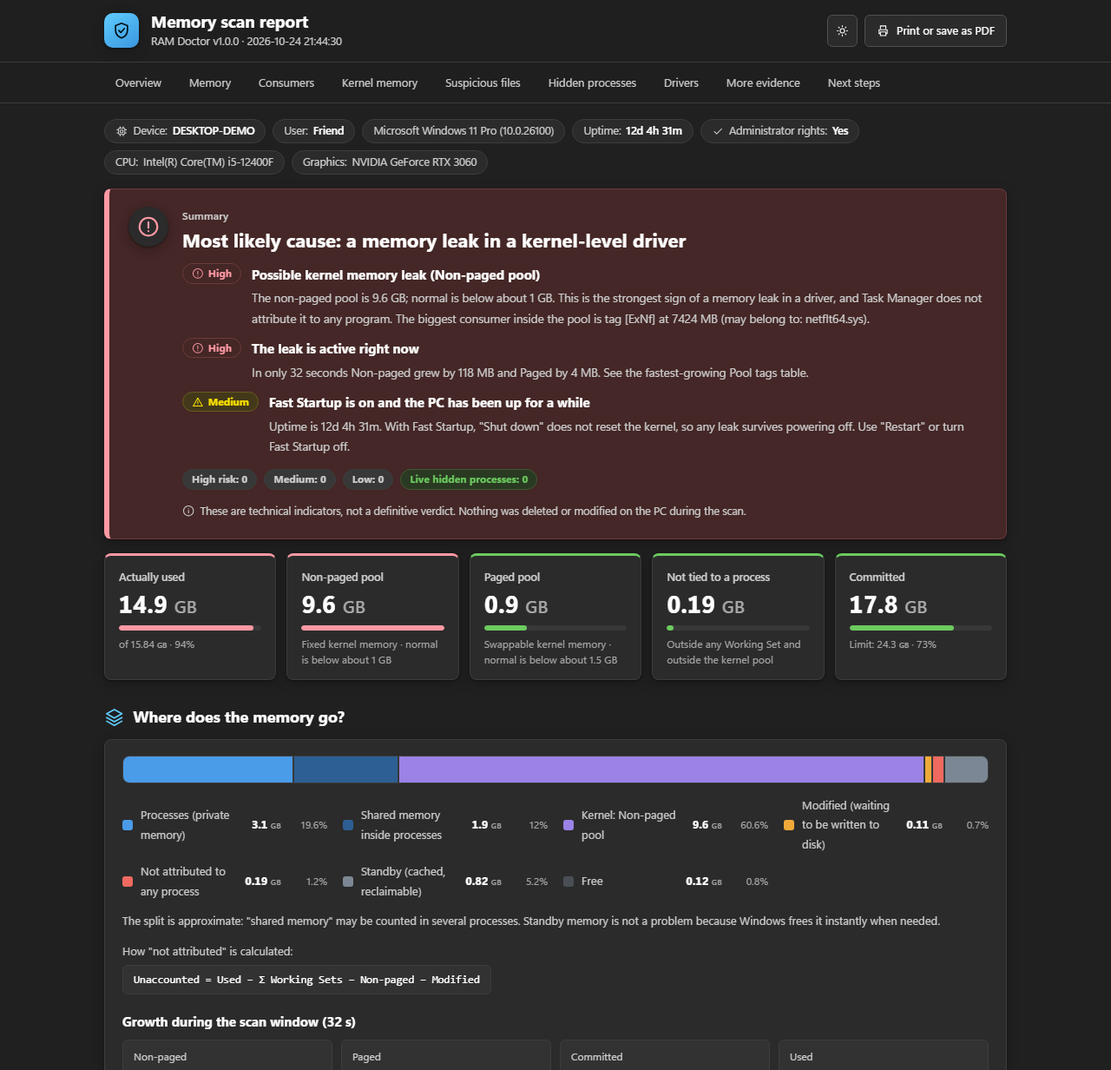
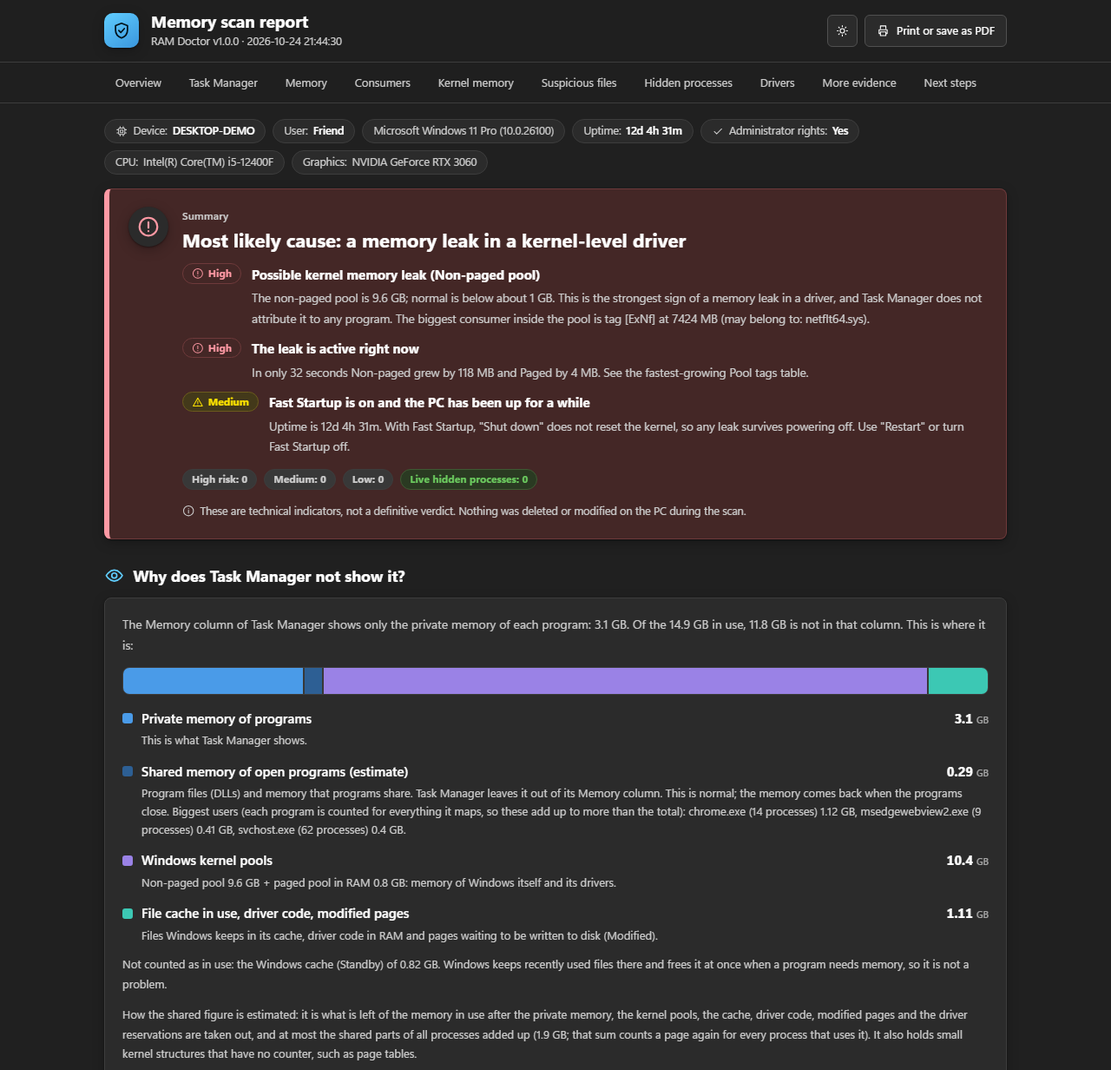
docs: how the hidden memory is explained, and why ConT is driver-reserved
how-detection-works.md documents the breakdown, the reasoning behind
treating ConT / Cont as memory outside the non-paged pool counter (and
why MmCa, MmCm and drivers' own tags are not), the check against the
counter, the thresholds and the new headline order. architecture.md
lists the additive plan fields; CHANGELOG [Unreleased] and tests/README
are updated, and the report sample pictures (both languages, light and
dark) are regenerated with headless Edge to show the new card.

diff --git a/docs/how-detection-works.md b/docs/how-detection-works.md
@@ -11,6 +11,7 @@ Everything is a **heuristic indicator**, not a verdict. A *High* rating means
 malware". This page is honest about what is and is not covered.
 
 Contents: [memory accounting](#memory-accounting) ·
+[driver-reserved memory](#driver-reserved-memory-pool-tag-cont) ·
 [verdict thresholds](#verdict-thresholds) ·
 [kernel pool tags](#kernel-pool-tags) ·
 [signals and weights](#signals-and-weights) ·
@@ -21,25 +22,101 @@ Contents: [memory accounting](#memory-accounting) ·
 
 ## Memory accounting
 
+The question behind the tool is "my RAM is full, why does Task Manager show
+nothing?". Task Manager's default **Memory** column shows each process's
+**private working set** only, so everything else that is in use is invisible
+there. RAM Doctor splits the memory in use into parts that add up exactly:
+
 ```
 Used        = TotalVisible - Available                 (Available = free + standby)
-SumWS       = sum of Working Set of all processes      (includes shared pages)
-SumPrivate  = sum of Private Working Set               (what Task Manager shows)
-Shared      = max(0, SumWS - SumPrivate)               (upper bound: shared pages repeat)
-Unaccounted = max(0, Used - SumWS - NonPagedPool - Modified)
+Private     = sum of Private Working Set               (what Task Manager shows)
+SharedSum   = sum of (Working Set - Private WS)        (a page counts once per process that maps it: an upper bound)
+Hidden      = Used - Private                           (what Task Manager does not show)
+  Kernel      = Non-paged pool + Paged pool resident
+  System      = System cache resident + pageable driver code resident + Modified list
+  Drivers     = driver-reserved contiguous memory      (pool tags ConT / Cont, see below)
+  Shared      = min(what is left, SharedSum)           ESTIMATE: shared memory of programs, each page once
+  Unexplained = what is left beyond SharedSum
+Unattributed = Drivers + Unexplained                   (the corrected "not attributed to any process")
+Unaccounted  = max(0, Used - SumWS - NonPagedPool - Modified)   (formula of 1.0-1.1.2, kept in the plan)
 ```
 
+Each part takes at most what is left of `Hidden`, in the order listed, so
+sampling noise (the counters are read a few milliseconds apart) can never make
+the parts add up to more than the memory in use, and no part is negative.
+
+* **Shared** is an estimate. Windows has no counter for "shared pages, each
+  counted once" (only RAMMap's page-by-page walk has that), so it is what is
+  left after everything measurable is taken out, capped by `SharedSum`. It also
+  holds small kernel structures that have no counter (page tables, kernel
+  stacks). Browsers and launchers with many processes hold most of it: the
+  consumers table shows `Working Set - Private` per program (summed over its
+  processes, so it overcounts too; it is for ranking, not adding up).
 * **Non-paged pool** and **paged pool** are kernel memory that belongs to no
   process. A driver leak shows up here.
-* **Unaccounted** is what is *not* inside any process working set and not
-  non-paged pool or the modified list: driver-locked memory, AWE, RAM disks,
-  hardware-reserved regions, or a hidden process. Earlier versions compared
-  against *private* working sets only and mis-reported large shared regions
-  (games, browsers, file cache) as "missing"; comparing against full working
-  sets avoids that false alarm.
+* **Unexplained** is what is left even if every shared page were counted once
+  per process: driver-locked pages the tag table does not record
+  (`MmAllocatePagesForMdl`), AWE, RAM disks, or a hidden process.
+* **Why the old "not attributed" said 0 on the PC that started this project.**
+  Its formula subtracted the *summed* working sets. With 30 browser processes
+  mapping the same DLLs that sum is far larger than the real shared memory, so
+  it cancelled out 2.3 GB of driver reservations: Used 18.19 GB, private 8.56,
+  `SharedSum` 9.88, non-paged 0.9, modified 0.14 gives
+  `18.19 - 18.44 - 0.9 - 0.14 < 0`, so 0. The breakdown measures the driver
+  reservations on their own: Hidden 9.63 = shared ~4.47 + drivers 2.26 +
+  kernel pools 2.07 + cache, driver code and modified 0.83 + unexplained 0.
+  `UnaccountedGB` stays in the plan for older readers; the report, the summaries
+  and the observations use the corrected values.
 * **Standby / cached** memory is reclaimable and is *not* a problem even though
-  it counts as "used" in some views.
+  it counts as "used" in some views. It is not part of `Used` above.
 * Hardware-reserved memory (installed minus usable) is reported as information.
+
+### Driver-reserved memory (pool tag `ConT`)
+
+Drivers that need physically contiguous memory (DMA buffers, graphics rings and
+frame buffers, capture and virtual-display devices) call
+`MmAllocateContiguousMemory*`. In the Windows Research Kernel sources the
+memory manager serves a small request from the non-paged pool under the tag
+`MmCm` (that memory *is* in the pool counter), and otherwise takes free pages
+straight from the physical page lists and only *records* them in the pool tag
+table with `ExInsertPoolTag` under `Cont`. Windows 10 and 11 record them under
+`ConT`. Those bytes appear in PoolMon and in the report's tag table but are not
+part of **Pool Nonpaged Bytes**, and they belong to no process, so Task Manager
+cannot show them anywhere. On the scan that started this project `ConT` held
+2310 MB while the whole non-paged pool counter was 0.9 GB, which is only
+possible because they are outside it.
+
+What counts, precisely:
+
+* The tags `ConT` and `Cont`, compared case-sensitively (pool tags are). On the
+  development PC (Windows 11, one discrete GPU) they hold 7 MB (347 live
+  blocks, about 21 KB each) and 6 MB (405 live blocks, about 16 KB each):
+  multi-page blocks, as contiguous allocations are. `MmCa` (control areas of
+  mapped files), `MmCm` and every driver's own tag are ordinary pool memory and
+  are already inside the pool counters, so they are not in this class.
+* A check against the counter (`Get-DriverReservedBytes`): when the *other*
+  non-paged tags already explain at least half of the counter, at most
+  `counter - others` of the contiguous bytes could hide inside it, so they count
+  in full (the documented case). Otherwise only the part the counter provably
+  cannot hold (`others + contiguous - counter`) counts. A Windows build that did
+  put them inside the pool is therefore never counted twice by much.
+* Without the tag table (the native helper failed) the value is unknown, not 0:
+  `DriverReservedKnown` is `false`, the report and the summaries say so, and any
+  such memory ends up in the shared estimate.
+
+The tag is written by the memory manager on behalf of whichever driver asked,
+so it **cannot name the driver** (and the byte search used for other tags would
+only find chance matches, so it is skipped for these two). The observation
+lists **candidates** honestly as candidates: the display adapters (from
+`Win32_VideoController`, trademark marks removed) and running graphics,
+capture, virtual-display or virtual-machine drivers whose file is not
+Microsoft's. The company in the file's version information decides that, not
+the signature, because graphics drivers are WHQL-signed by Microsoft. The usual
+causes and fixes: an integrated GPU that is enabled although the monitor is on
+the discrete card (disable it in the BIOS/UEFI), outdated graphics drivers,
+virtual display or capture software that is no longer used. RAMMap's
+*Use Counts* tab (row *Driver Locked*) confirms memory that drivers hold
+outside the pools.
 
 A second snapshot is taken after an observation window (default 30 s, at least
 that long since snapshot 1). Deltas are computed per process (private bytes),
@@ -55,8 +132,10 @@ for the pools, commit, used memory and per pool tag.
 | Kernel leak: non-paged pool | high | `NonPaged >= max(3 GB, 12% of R)` |
 | Non-paged pool above normal | med | `NonPaged >= max(1.5 GB, 6% of R)` |
 | Paged pool bloat | high | `Paged >= max(3 GB, 12% of R)` |
-| Large memory outside any process | high | `Unaccounted >= max(4 GB, 20% of R)` |
-| Memory partly unattributed | med | `Unaccounted >= max(2 GB, 10% of R)` |
+| A hardware driver keeps reserving memory | high | `Drivers >= 2 GB` **and** the contiguous tags grew by >= 30 MB during the window |
+| Memory reserved by a hardware driver | med | `Drivers >= 512 MB` |
+| Large memory outside any process | high | `Unexplained >= max(4 GB, 20% of R)` |
+| Memory partly unattributed | med | `Unexplained >= max(2 GB, 10% of R)` |
 | Leak is active right now | high | non-paged or paged grew >= 30 MB during the window |
 | A process is growing | med | top grower gained >= 100 MB during the window |
 | Biggest consumer | info / med | one program >= 30% of used memory (med if not signed) |
@@ -70,9 +149,34 @@ for the pools, commit, used memory and per pool tag.
 | Standby >= 25% of R | info | explains "used" memory that is reclaimable |
 | Hardware reserved >= 1 GB | info | BIOS / integrated graphics |
 
+Why these driver-reservation thresholds: contiguous allocations are normally a
+handful of DMA buffers (13 MB on the development PC), so 512 MB is far above
+normal and still catches the case that started this project (2.3 GB) as
+*medium*, worded as "memory reserved by a hardware driver, not a virus". A
+large but **stable** reservation is a driver setting or a second graphics
+adapter, not a leak, so it never becomes *high* on its size alone: that needs
+2 GB **and** growth during the window (30 MB, the same rule as the kernel-pool
+leak). `-ThresholdScale` scales 512 MB and 2 GB like the other byte thresholds.
+The "unattributed" rows use `Unexplained`, which no longer counts the kernel
+pools, the cache or the driver reservations (they have their own rows) and no
+longer hides behind double-counted shared pages.
+
 The **headline** is chosen in this order: hidden live process or any High
-suspect, then kernel-pool thresholds, then unaccounted memory, then any medium
-observation, otherwise "no clear leak or malicious indicator right now".
+suspect, then kernel-pool thresholds, then a growing driver reservation, then
+unexplained memory. Then, when no observation is High, the headline answers the
+user's real question with the two biggest parts of the memory Task Manager does
+not show (only when at least 1 GB is hidden), for example *"No leak found: most
+of the memory Task Manager does not show (9.6 GB) is shared memory of open
+programs (~4.5 GB) and memory reserved by hardware drivers (~2.3 GB)"*,
+followed by *"; other findings are listed below"* when there are medium
+findings. "No leak found" is left out while a program is growing by 100 MB or
+more during the window (the sentence then starts with "Most of the memory").
+Otherwise any medium observation, otherwise "no clear leak or malicious
+indicator right now". The verdict
+**level** is still the highest observation level, so the window's bar keeps its
+colour. Observations of the same level keep the order in which they were found:
+the memory explanations (kernel pool, driver reservation, unexplained memory)
+come before the security findings (suspicious files, Defender history).
 A scan only sees **the moment it runs**; run it while the problem is visible.
 
 ## Kernel pool tags
@@ -83,7 +187,11 @@ tag, allocations, frees and bytes in paged and non-paged pool. RAM Doctor:
 * shows the top 12 non-paged, top 6 paged, and up to 6 tags that **grew by at
   least 1 MB** during the window;
 * describes about fifteen well-known Windows tags (`File`, `MmCa`, `EtwB`,
-  `NVRM`, ...) from a built-in dictionary;
+  `NVRM`, `ConT`, ...) from a built-in dictionary (tags are compared
+  case-sensitively: `ConT` and `cont` are different tags);
+* adds the contiguous tags `ConT` / `Cont` to the
+  [driver-reserved memory](#driver-reserved-memory-pool-tag-cont), because they
+  are recorded outside the pool counters;
 * maps the remaining printable tags to **candidate drivers** by scanning the
   binaries of the running drivers for the 4 raw bytes. A tag found in more than
   8 files is reported as "too generic to attribute".
@@ -237,9 +345,14 @@ Be skeptical of a clean result in these situations:
 * **Exact attribution of a pool leak**. Tag-to-driver mapping is a heuristic.
 * **GPU/VRAM, hypervisor and container memory** beyond what shows in the
   process list (`vmmem`).
-* **Memory-type breakdown** like RAMMap's *Use Counts* (driver-locked, AWE,
-  mapped-file categories). RAM Doctor tells you the remainder exists and sends
-  you to RAMMap for the category.
+* **An exact memory-type breakdown** like RAMMap's *Use Counts*. RAM Doctor
+  separates private memory, kernel pools, cache, driver reservations recorded
+  in the pool tag table and the rest, but the shared part is an estimate, and
+  driver-locked pages that the tag table does not record (`MmAllocatePagesForMdl`,
+  AWE) are only visible as "unexplained" (or inside the shared estimate when
+  the shared working sets are large). RAMMap walks every page and settles it.
+* **Which driver** reserved contiguous memory: the tag is written by Windows
+  for the caller, so the report lists candidates only.
 * **Windows editions or locales** other than the English Windows 11 it was
   developed on are expected to work (counters are read through locale-neutral
   WMI classes) but have had less testing.

diff --git a/docs/architecture.md b/docs/architecture.md
@@ -48,7 +48,7 @@ flowchart TB
 | `src/RAM-Doctor-GUI.ps1` | The window. It contains **no scanning logic**: it starts the scan and the actions as child `powershell.exe` processes, parses their timestamped progress lines for the progress bar, and reads the plan file to show results. It also provides the *report location* and *copy summary for sending* buttons and the optional *Share with my helper* flow (hidden when `share.config.json` has no endpoint). |
 | `src/lib/Fluent.cs` | Windows 11 style WinForms controls (cards, buttons, list, progress, info bar) compiled with `Add-Type`. They draw correctly both right-to-left (Arabic) and left-to-right (English): every control reads its own `RightToLeft` when it paints. `FCoach` is the tour overlay: a per-pixel-alpha window laid over the client area that dims it, lights one control and draws the tour card; the card has the keyboard while the tour is open (Tab, Enter, Esc) and gives it back afterwards, and the keys, the mouse wheel and the clicks meant for the window never reach it. **Display scaling**: `Dpi.Enable` makes the process Per-Monitor V2 dpi-aware (falling back to per-monitor, then system awareness) before the first window exists, every size in the kit is written for 96 dpi and multiplied by `Theme.Scale` where it is used, fonts follow `Theme.FontScale`, and `DpiWatcher` reports `WM_DPICHANGED` so the window re-scales itself on another monitor. **Screen readers**: every control has an accessible role, name, state and default action (buttons, expanders with expanded/collapsed, check boxes, the progress bar with its value, info bars as text or alerts, the list's rows as check boxes, decorative icons hidden), and the tour card is a dialog with its texts and three buttons; each step is announced (UI Automation notification). |
 | `src/lib/Tour.ps1` | The optional guided tour of the window (coach marks): the step list, the card texts and placement, and the first-use offer on the `Ready to scan` bar. It only explains: it never starts a scan or an action and saves nothing. The overlay itself is `Fluent.FCoach` (below). |
-| `src/lib/Strings.ps1` | The one string table: an `ar` and an `en` table with the same keys, and `Get-Text` / `Set-UiLang` / `Get-UiLang`. No other source file holds a user-facing literal (checked by `tests/Strings.Tests.ps1`). |
+| `src/lib/Strings.ps1` | The one string table: an `ar` and an `en` table with the same keys, and `Get-Text` / `Set-UiLang` / `Get-UiLang`, plus `Get-HiddenMemoryLines` (the "not shown by Task Manager" lines that the window, the copied summary and the share client build from a plan). No other source file holds a user-facing literal (checked by `tests/Strings.Tests.ps1`). |
 | `src/RAM-Doctor.ps1` | The scan. Collects evidence, scores it, writes the report and the plan. Never modifies the system. |
 | `src/RAM-Doctor-Actions.ps1` | `Quarantine`, `Restore`, `Purge`, `List`. The only code that changes the system. |
 | `src/lib/Native.cs` | Read-only P/Invoke helpers (see below), compiled with `Add-Type` (C# 5). |
@@ -93,7 +93,12 @@ flowchart TB
 8. **Correlation**: items are grouped by file path into *suspects*, signals are
    merged, a persistence bonus is applied, risk is derived from the score.
    Windows/Microsoft-signed binaries are judged per item instead of per file.
-9. **Memory accounting and pool-tag mapping** (top tags to driver files).
+9. **Memory accounting and pool-tag mapping** (top tags to driver files): the
+   breakdown of the memory Task Manager does not show (`Get-MemoryBreakdown`:
+   shared estimate, driver-reserved contiguous memory from the `ConT` / `Cont`
+   tags, kernel pools, cache, unexplained), the shared working set per program,
+   and the candidate drivers for a reservation (see
+   [how-detection-works.md](how-detection-works.md#memory-accounting)).
 10. **Evidence**: Defender status and detections, Resource-Exhaustion events,
     Winlogon / IFEO / AppInit anomalies.
 11. **Observations and verdict**: rule-based, text in the scan language (Arabic or English, see [Language](#language)).
@@ -134,7 +139,15 @@ also what the optional upload bundle and the copied summary are derived from
   "observations": [ { "Level": "high|med|low|info", "Title": "...", "Body": "..." } ],
   "memory": { "TotalGB": 31.83, "UsedGB": 26.7, "NonPagedGB": 0.77, "PagedGB": 0.84,
               "UnaccountedGB": 0, "StandbyGB": 5.0, "CommittedGB": 43, "CommitLimitGB": 48.8,
-              "WindowSec": 37, "NonPagedGrowthMB": 0, "PagedGrowthMB": 0 /* ... */ },
+              "WindowSec": 37, "NonPagedGrowthMB": 0, "PagedGrowthMB": 0, /* ... */
+              // added after 1.1.2 (additive, optional for readers): where the memory Task Manager does not show is
+              "HiddenGB": 9.63,                 // Used - private working sets
+              "SharedUniqueGB": 4.47,           // shared memory of programs, each page once (estimate)
+              "DriverReservedGB": 2.26, "DriverReservedKnown": true, "DriverReservedGrowthMB": 0,   // contiguous, outside the pool counter
+              "KernelPoolsGB": 2.07, "SystemOtherGB": 0.83, "UnexplainedGB": 0,
+              "UnattributedGB": 2.26,           // corrected "not attributed" = DriverReserved + Unexplained (UnaccountedGB keeps the old formula)
+              "TopShared": [ { "name": "brave.exe", "count": 32, "sharedMB": 5240 } ],   // biggest shared working sets per program (summed)
+              "DriverReservedCandidates": [ "NVIDIA GeForce RTX 4070", "amdkmdag.sys" ] },
   "suspects": [
     {
       "id": 1, "risk": "High|Medium|Low", "score": 10,
@@ -163,6 +176,9 @@ Notes:
 * The plan contains full paths and command lines. It is **not redacted** on
   disk; see [privacy-and-safety.md](privacy-and-safety.md).
 * `Select` ids refer to `suspects[].id`.
+* The memory breakdown fields are additive: plans of 1.0.x / 1.1.x have none, and
+  every reader (report, window, copied summary, `summary.md`) falls back to the
+  old figures. `tests/PlanSchema.Tests.ps1` checks their types when present.
 
 ## Actions
 
@@ -262,7 +278,9 @@ local files. The GUI offers two buttons:
   report selected, so it can be attached to an e-mail or chat.
 * *Copy summary to send* (Arabic: نسخ ملخص للإرسال) puts a short **redacted**
   plain-text summary on the clipboard, to paste into a chat. Its labels are in the
-  window language.
+  window language. For scans after 1.1.2 it also says, in numbers, where the
+  memory that Task Manager does not show is and which programs hold the most
+  shared memory (the same lines as the window's verdict bar and `summary.md`).
 
 ## Optional: one-click Share with my helper
 
@@ -330,7 +348,7 @@ therefore:
   *minimised* console), no download;
 * with a header that says what it does.
 
-The cost is a larger file (about 590 KB); the benefit is that it can be audited
+The cost is a larger file (about 630 KB); the benefit is that it can be audited
 and diffed, and it triggers fewer heuristics.
 
 The release file has **no environment-controlled behaviour**: a check in

diff --git a/tests/README.md b/tests/README.md
@@ -46,14 +46,14 @@ reproduce CI exactly.
 |------|--------|
 | `Build.Tests.ps1` | structure and reproducibility of the **release** `dist/RAM-Doctor.bat`: plain ASCII header, no BOM, version stamp, markers, size, deterministic bytes, `SHA256SUMS.txt`, `-Verify`; **no environment-controlled behaviour** (no `RAMDOC_` text, no `-TestScript` pass-through, PowerShell reads only `$env:SELF`, cmd.exe reads only an allow-list of variables, planted hooks are caught); and that the `-DevHooks` test variant stays in step with it (identical payload and secure-folder code) |
 | `Unpacker.Tests.ps1` | the unpack command of the **test variant** (`-DevHooks`): every file byte-identical to its source (UTF-8 BOM + CRLF); the header's ACL helpers (SYSTEM + Administrators only, junctions and foreign owners rejected); headless runs (paths with spaces, damaged package, old leftovers swept, nothing left behind). On an administrator session it exercises the *secure* mode (`%ProgramData%\RAM-Doctor-run\<random>`); its `Elevated`-tagged tests also check the real folder and parent ACLs |
-| `PlanSchema.Tests.ps1` | the plan JSON contract between the scan (writer) and the actions script / window (readers) |
-| `Heuristics.Tests.ps1` | pure helper functions of the scan engine, lifted out with the parser (the scan is not run) |
+| `PlanSchema.Tests.ps1` | the plan JSON contract between the scan (writer) and the actions script / window (readers), including the additive memory-breakdown fields (types when present, arrays through the round trip, older plans without them) |
+| `Heuristics.Tests.ps1` | pure helper functions of the scan engine, lifted out with the parser (the scan is not run): name and path heuristics, and the memory breakdown (the scan that started the project, double-counted shared working sets, clamping), driver-reserved bytes and thresholds, candidate drivers, and the choice of the verdict headline |
 | `Actions.Tests.ps1` | quarantine -> restore -> purge on a harmless fixture, plus the safety invariants (other-PC plans refused, changed files skipped, protected files never moved) and the crash-safe undo record: write-ahead + `.bak`, truncated / damaged / missing / newer-schema records, honest PARTIAL restores that a second run finishes, unknown operations, `pending` steps, batch numbering, the store lock (BUSY), future-dated purges, short stored names, log pruning; with a failing `Save-Manifest` (the mode functions run in a child process): a first step that cannot be recorded, a step left `pending`, `FAILED error`, a record held by another program (`unreadable`, no `.bak` fallback), a restore to `.restored` finished by the next run |
 | `ScanOutput.Tests.ps1` | the scan's output folder housekeeping (`Remove-OldScans`, lifted with the parser): the newest 3 scans of this PC are kept and the scan just written always counts (clock behind); files of other PC names are never touched |
 | `Store.Tests.ps1` | `src/lib/Store.ps1`: atomic JSON writes (Arabic/Unicode paths, `.bak`, leftover `.tmp`, a folder that cannot be written keeps the original), safe reads (truncated / NUL / empty / non-UTF-8 main file recovered from `.bak`, both bad = `Damaged` and kept on disk, newer schema = `TooNew`, 1.0.x files without `schema`), and the lock (`Busy` while another thread holds it, released on errors, squatted names ignored) |
 | `Elevated.Tests.ps1` | **administrator only** (25 tests, skipped cleanly otherwise): the locked-down store at `C:\ProgramData\RAM-Doctor` (ACL, re-verification, junction / foreign-owner handling), the quarantine -> restore -> purge cycle on the real default store, forged-manifest refusals, service start-type changes (test services are created and deleted), the native-helper loader (ACL'd compiler folder, `csc.exe` fallback) |
 | `Gate.Tests.ps1` | proves the static gate catches what it claims to (12 planted problems, a planted `RAMDOC_` hook in a packed script, a release workflow that builds with `-DevHooks` or publishes anything but the two release files) and accepts a clean repository |
-| `Report.Tests.ps1` | the HTML report is inert and well-formed, **in Arabic and in English** (wraps `fixtures/Test-ReportSafety.ps1`: 8 scenario/language pairs; English must have no Arabic text, `lang`/`dir` must match, no unresolved `[[key]]` or `{0}`) |
+| `Report.Tests.ps1` | the HTML report is inert and well-formed, **in Arabic and in English** (wraps `fixtures/Test-ReportSafety.ps1`: 10 scenario/language pairs; English must have no Arabic text, `lang`/`dir` must match, no unresolved `[[key]]` or `{0}`), and the "Why does Task Manager not show it?" card in both languages (numbers, parts, shared column, corrected "not attributed", data of older scans without it) |
 | `Strings.Tests.ps1` | the one string table (`src/lib/Strings.ps1`): same keys and placeholders in `ar` and `en`, nothing untranslated, no Arabic inside `en`, every key used and every used key defined, no user-facing Arabic literal anywhere else in `src/`, and the language rule (`-Lang`, Windows UI language) |
 | `Dpi.Tests.ps1` | display scaling helpers of `src/lib/Fluent.cs` at 100-200 %: every 96-dpi size scaled and rounded, fonts on a scaled monitor and on a scaled system, font re-scaling after a monitor change (no double scaling), the tour card's size and button layout at every scale in both directions, and that the window turns dpi awareness on before its first window |
 | `Tour.Tests.ps1` | the guided tour (`src/lib/Tour.ps1`): the step list covers every part of the window and names only controls the window has, the steps that apply (administrator bar, sharing), the card texts in both languages (button names quoted from the string table, no unfilled placeholder), the keys (arrows follow the reading direction), card placement (never off-window, never over the lit control unless it fills the window) and scrolling, the first-use check, and that the tour starts nothing and writes nothing. `tests/gui/Flow.Test.ps1` drives the real overlay |

diff --git a/CHANGELOG.md b/CHANGELOG.md
@@ -7,6 +7,45 @@ and this project adheres to [Semantic Versioning](https://semver.org/spec/v2.0.0
 
 ## [Unreleased]
 
+### Added
+
+- **"Where is my memory?" answered in numbers.** The scan splits the memory Task Manager does not show (its Memory column
+  holds only private working sets) into shared memory of open programs (an estimate that counts each page once), memory
+  reserved by hardware drivers, Windows kernel pools, cache / driver code / modified pages, and whatever no counter
+  explains. When there is no leak and no high finding, the verdict headline now says it, for example *"No leak found:
+  most of the memory Task Manager does not show (9.6 GB) is shared memory of open programs (~4.5 GB) and memory reserved
+  by hardware drivers (~2.3 GB)"*, in Arabic and English (without "No leak found" while a program is growing); security
+  findings follow below it. The window's verdict bar, the copied summary and the shared `summary.md` carry the same
+  numbers.
+- **Report card "Why does Task Manager not show it?"** right after the summary: the numbers, a stacked bar of the memory
+  in use, one plain sentence per part, the biggest users of shared memory and the candidate drivers. The memory map
+  below it now counts shared memory once, so it adds up to the usable RAM. The consumers table has a **Shared (MB)**
+  column (working set minus private, per program).
+- **New observation: memory reserved by a hardware driver.** Contiguous physical memory that drivers get from
+  `MmAllocateContiguousMemory` is recorded in the pool tag table (`ConT`) but is not part of the non-paged pool counter
+  and belongs to no process, so nothing showed it. Medium from 512 MB, high only from 2 GB when it also grows during the
+  scan. It is worded as a driver, not a virus, lists candidate drivers honestly (display adapters and graphics, capture
+  or virtual-display drivers that are not Microsoft's; the tag cannot name the driver) and the steps: update the
+  graphics drivers, disable an unused integrated GPU in the BIOS/UEFI, remove unused virtual display or capture software,
+  confirm in RAMMap.
+- Plan: additive `memory` fields `HiddenGB`, `SharedUniqueGB`, `DriverReservedGB`, `DriverReservedKnown`,
+  `DriverReservedGrowthMB`, `KernelPoolsGB`, `SystemOtherGB`, `UnexplainedGB`, `UnattributedGB`, `TopShared`,
+  `DriverReservedCandidates`. Plans of 1.0.x and 1.1.x still load everywhere.
+- Tests: the breakdown maths (including the double-counted shared working sets and clamping), the thresholds of the new
+  observation, the choice of the headline, the candidates, the report card in both languages, the new plan fields and
+  older plans, the summaries (and their redaction), and a demo scenario `hidden` modelled on the scan that started the
+  project (synthetic data).
+
+### Changed
+
+- The "not attributed to any process" figure is corrected: the old formula subtracted the working sets summed over all
+  processes, which counts a shared page once per process, so it could cancel out gigabytes of driver reservations and
+  say 0. The report, the summaries and the "memory outside any process" observations use the corrected value (driver
+  reservations measured on their own, plus what even the summed shared memory cannot cover); `UnaccountedGB` keeps the
+  old formula for older readers.
+- Observations of the same level keep the order in which they were found (memory explanations before security
+  findings), and pool tags are compared case-sensitively (`ConT` and `cont` are different tags).
+
 ## [1.1.2] - 2026-10-25
 
 ### Fixed
